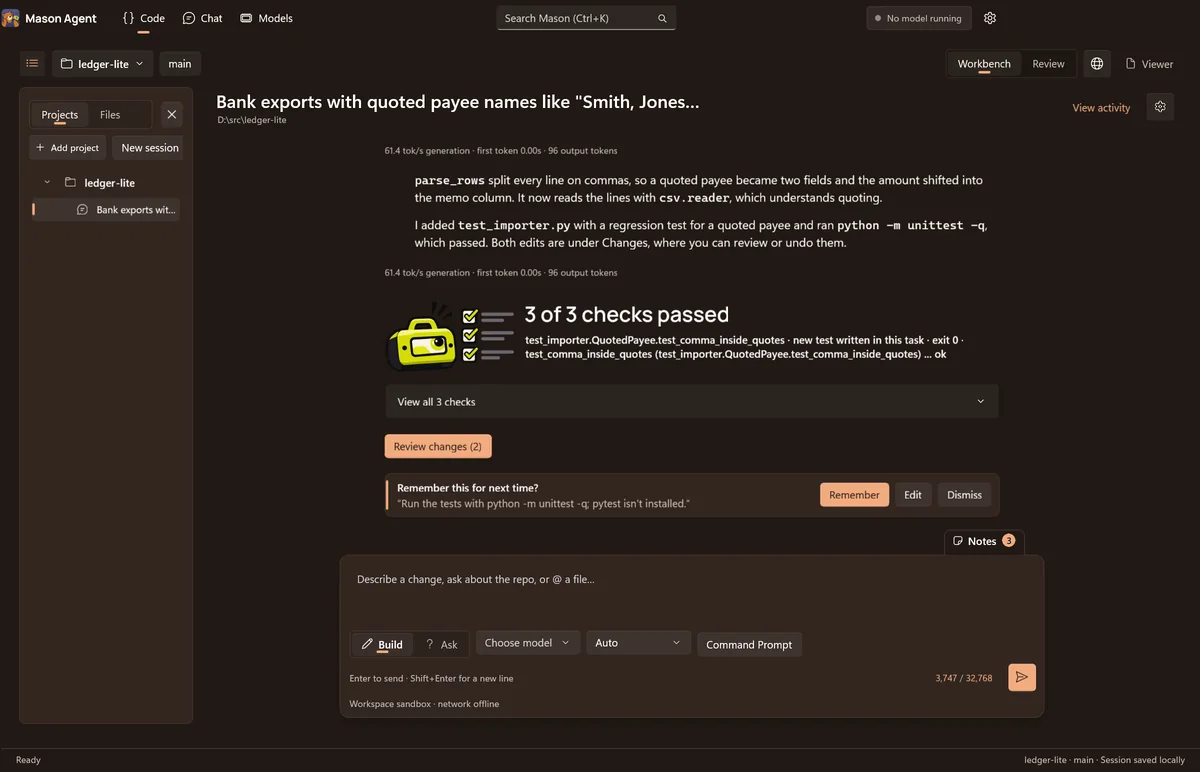
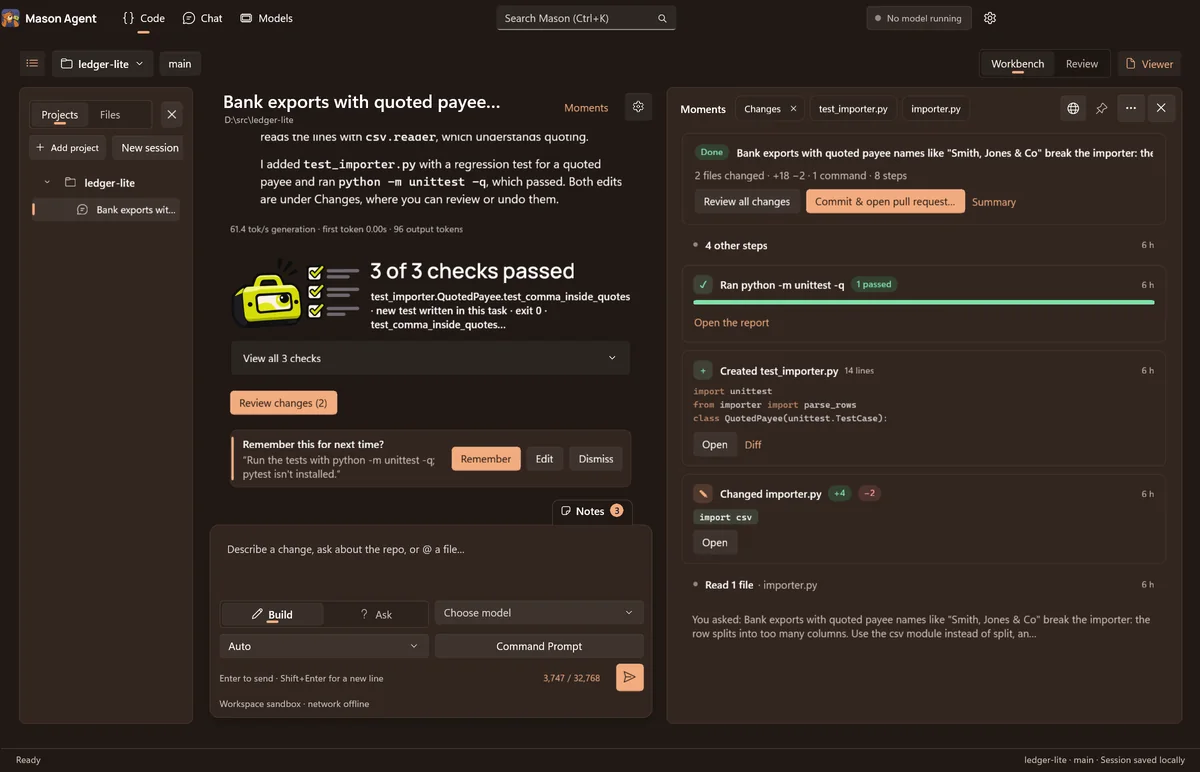
README and site screenshots show Moments
The Code screenshots (README hero, site hero, the five theme families and
the README theme strips) now show the ledger-lite session with Moments open
beside it; the Changes screenshots are retaken from the same build. Poses and
the social card are unchanged. Alt text mentions Moments.

The "code-session" review capture opens Moments, and MASON_UI_CAPTURE_ONLY
limits a capture run to named screens, so captures that change the session
(an empty session, an opened settings tab) don't leak into these shots.

diff --git a/site/index.html b/site/index.html
@@ -81,7 +81,7 @@
       <figure class="hero-shot">
         <picture>
           <source srcset="assets/code-dark.webp" media="(prefers-color-scheme: dark)">
-          <img src="assets/code-light.webp" width="1600" height="1029" alt="A Mason Agent coding session on Windows: the agent's explanation of a CSV parsing fix, 3 of 3 checks passed, a suggested note to remember, and the Notes tab on the request box" fetchpriority="high">
+          <img src="assets/code-light.webp" width="1600" height="1029" alt="A Mason Agent coding session on Windows: the agent's explanation of a CSV parsing fix, 3 of 3 checks passed, a suggested note to remember, and Moments beside it showing the run's test, new file and change" fetchpriority="high">
         </picture>
       </figure>
     </div>

diff --git a/windows/src/MasonAgent/MainWindow.Capture.cs b/windows/src/MasonAgent/MainWindow.Capture.cs
@@ -34,6 +34,13 @@ public sealed partial class MainWindow
         foreach (var (name, page) in new[] { ("models-library", 0), ("models-discover", 3), ("models-downloads", 4), ("models-runtimes", 2), ("models-connections", 5) })
             shots.Add((name, () => { Navigate("Models and connections"); selectModelView?.Invoke(page); }));
         foreach (var (name, open) in extraCaptures) shots.Add((name, open));
+        // MASON_UI_CAPTURE_ONLY ("code-session,code-changes") captures just those screens. Some captures change the session
+        // (a new empty session, an opened settings tab), so the README and site shots are taken on their own.
+        if (Environment.GetEnvironmentVariable("MASON_UI_CAPTURE_ONLY") is { Length: > 0 } only)
+        {
+            var wanted = only.Split(',', StringSplitOptions.RemoveEmptyEntries | StringSplitOptions.TrimEntries).ToHashSet(StringComparer.OrdinalIgnoreCase);
+            shots = shots.Where(s => wanted.Contains(s.Name)).ToList();
+        }
         // MASON_UI_CAPTURE_FAMILIES ("all" or a comma list such as "kiln,retro-neon") also captures each theme family;
         // without it only the current family is captured, under the original file names.
         var familyList = Environment.GetEnvironmentVariable("MASON_UI_CAPTURE_FAMILIES");

diff --git a/windows/src/MasonAgent/MainWindow.Code.cs b/windows/src/MasonAgent/MainWindow.Code.cs
@@ -674,7 +674,8 @@ public sealed partial class MainWindow
             if (kind != null) OpenTab(kind, "", true);
             else if (viewer.Visibility == Visibility.Visible) { CodePanels.Hide(session); forcedPanel = null; Arrange(); }
         }
-        extraCaptures.Add(("code-session", () => CaptureViewer(null)));
+        // The session as the README and site show it: the conversation with Moments open beside it.
+        extraCaptures.Add(("code-session", () => { CaptureViewer("activity"); if (session?.Tabs.FirstOrDefault(t => t.Kind == "activity") is { } moments) { moments.Location = null; moments.Scroll = 0; if (viewerEntries.TryGetValue(moments.Key, out var shown)) shown.Refresh?.Invoke(); } }));
         extraCaptures.Add(("code-changes", () => CaptureViewer("changes")));
         extraCaptures.Add(("code-harness", () => CaptureViewer("harness")));
         // The Live Viewer: the receipt it follows to when a run has ended, then one scene of each kind.

diff --git a/README.md b/README.md
@@ -12,7 +12,7 @@
 
 </div>
 
-<picture><source media="(prefers-color-scheme: dark)" srcset="docs/images/code-dark.png"><img src="docs/images/code-light.png" alt="A Mason Agent coding session on Windows: the agent's explanation of a CSV parsing fix, 3 of 3 checks passed, a suggested note to remember, and the Notes tab on the request box"></picture>
+<picture><source media="(prefers-color-scheme: dark)" srcset="docs/images/code-dark.png"><img src="docs/images/code-light.png" alt="A Mason Agent coding session on Windows: the agent's explanation of a CSV parsing fix, 3 of 3 checks passed, a suggested note to remember, and Moments beside it showing the run's test, new file and change"></picture>
 
 Add a project folder, ask for a change, and review every edit before you keep it. Your code and your conversations stay on your computer: models are reached only on localhost, and there is no account and no telemetry.
 
